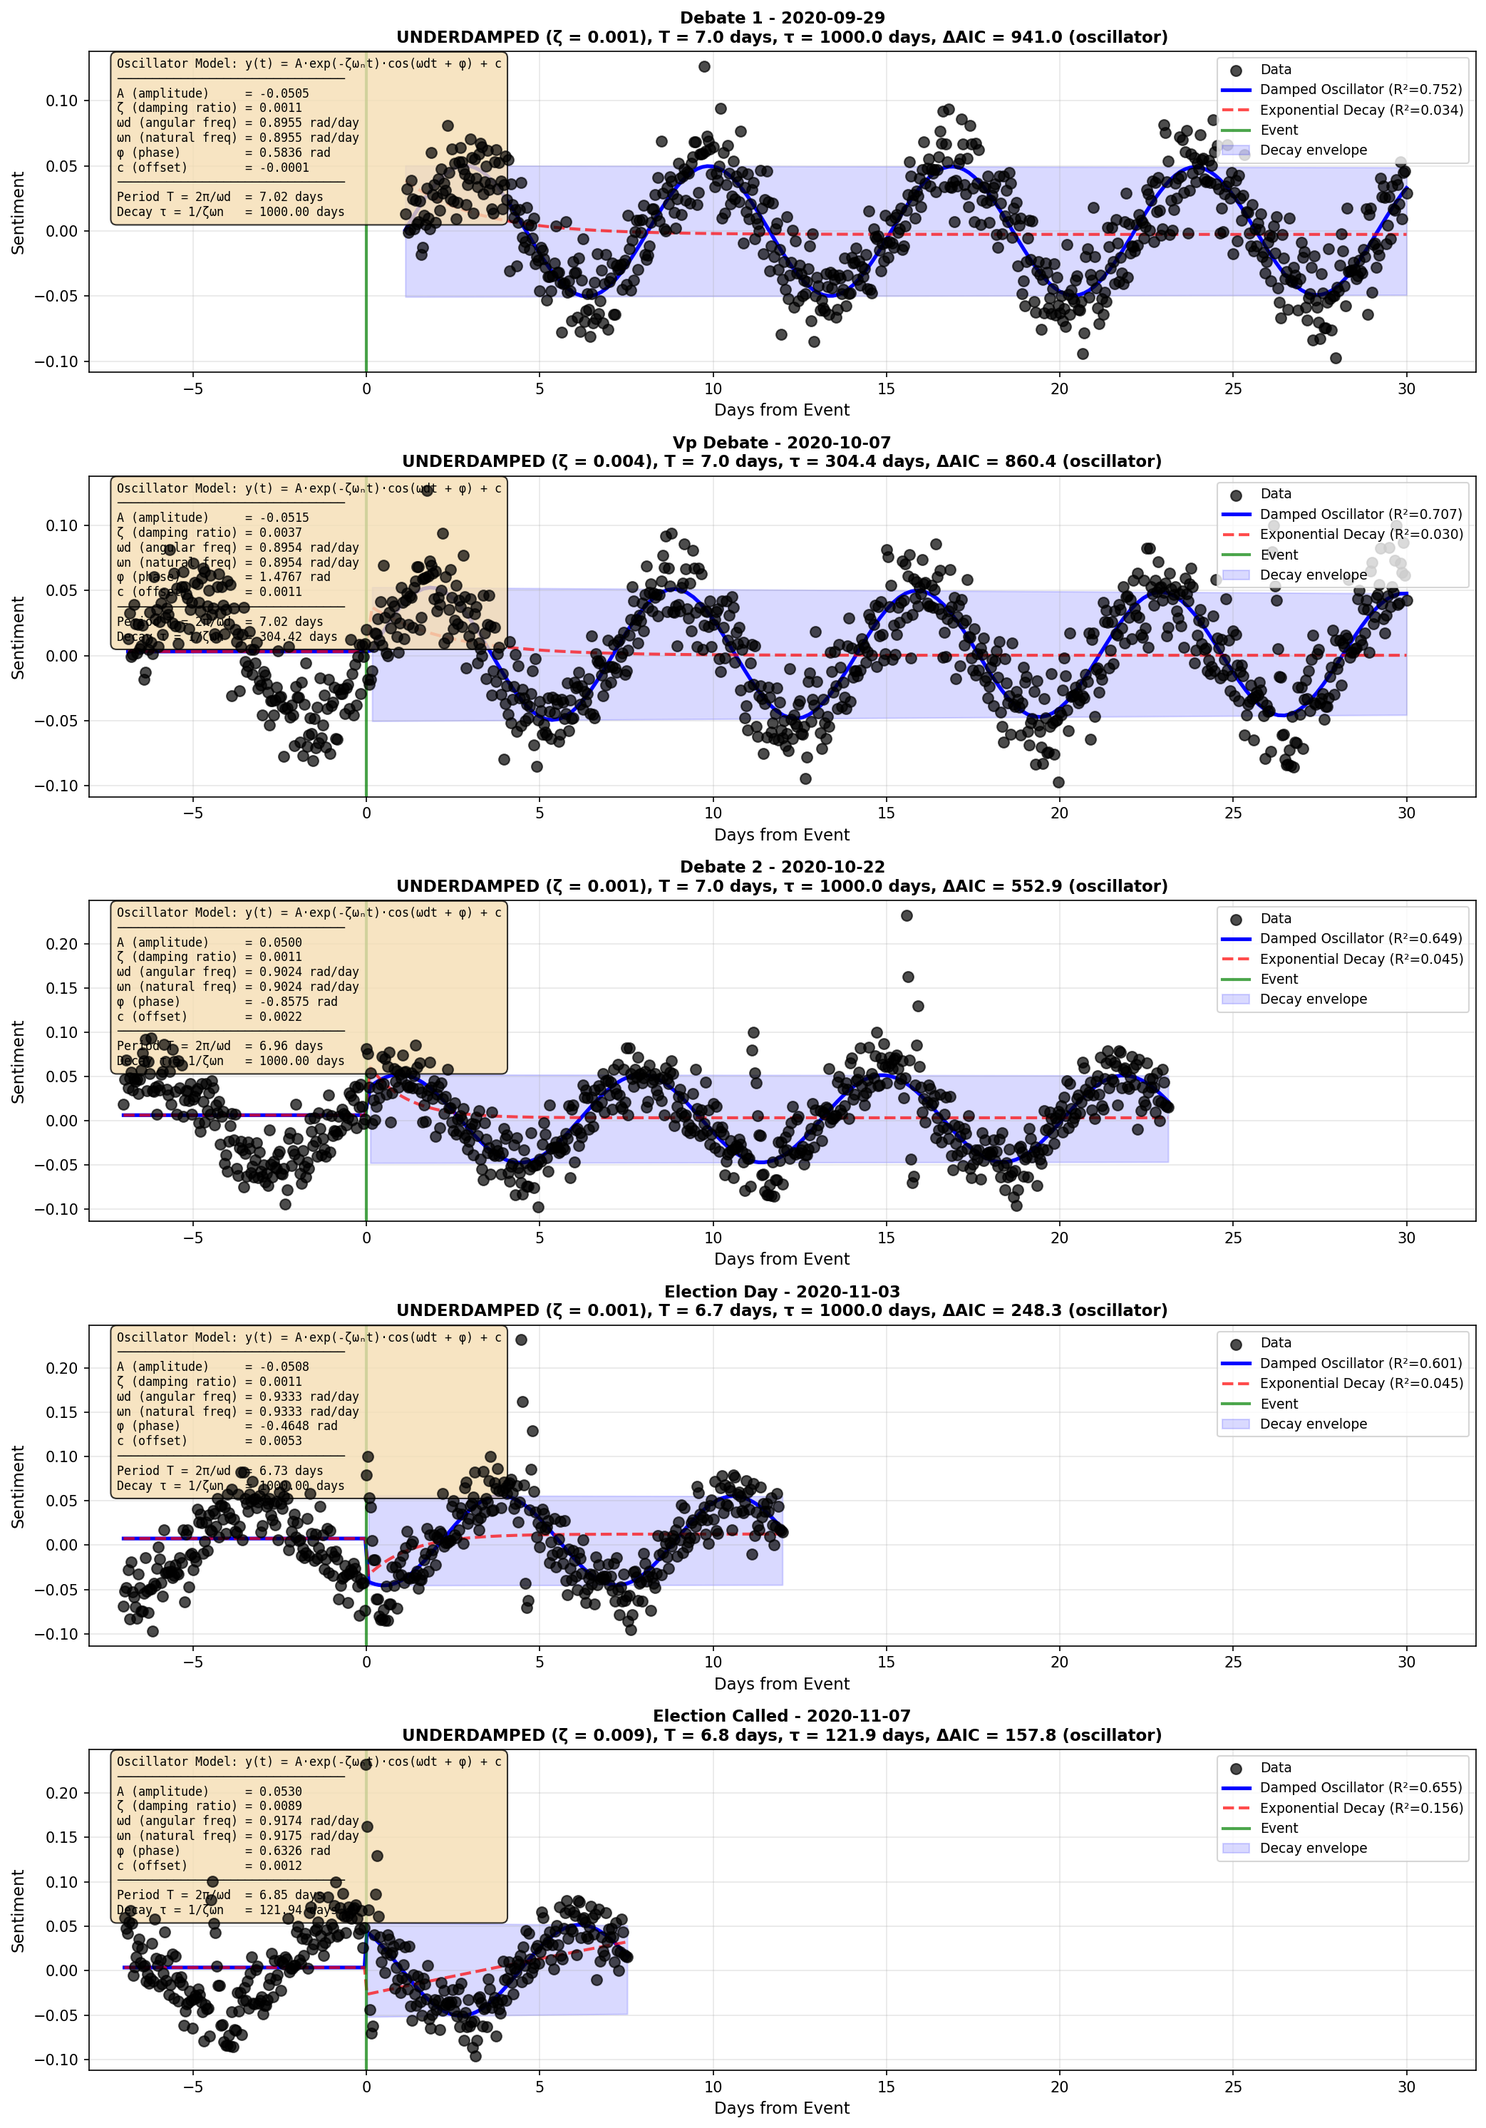
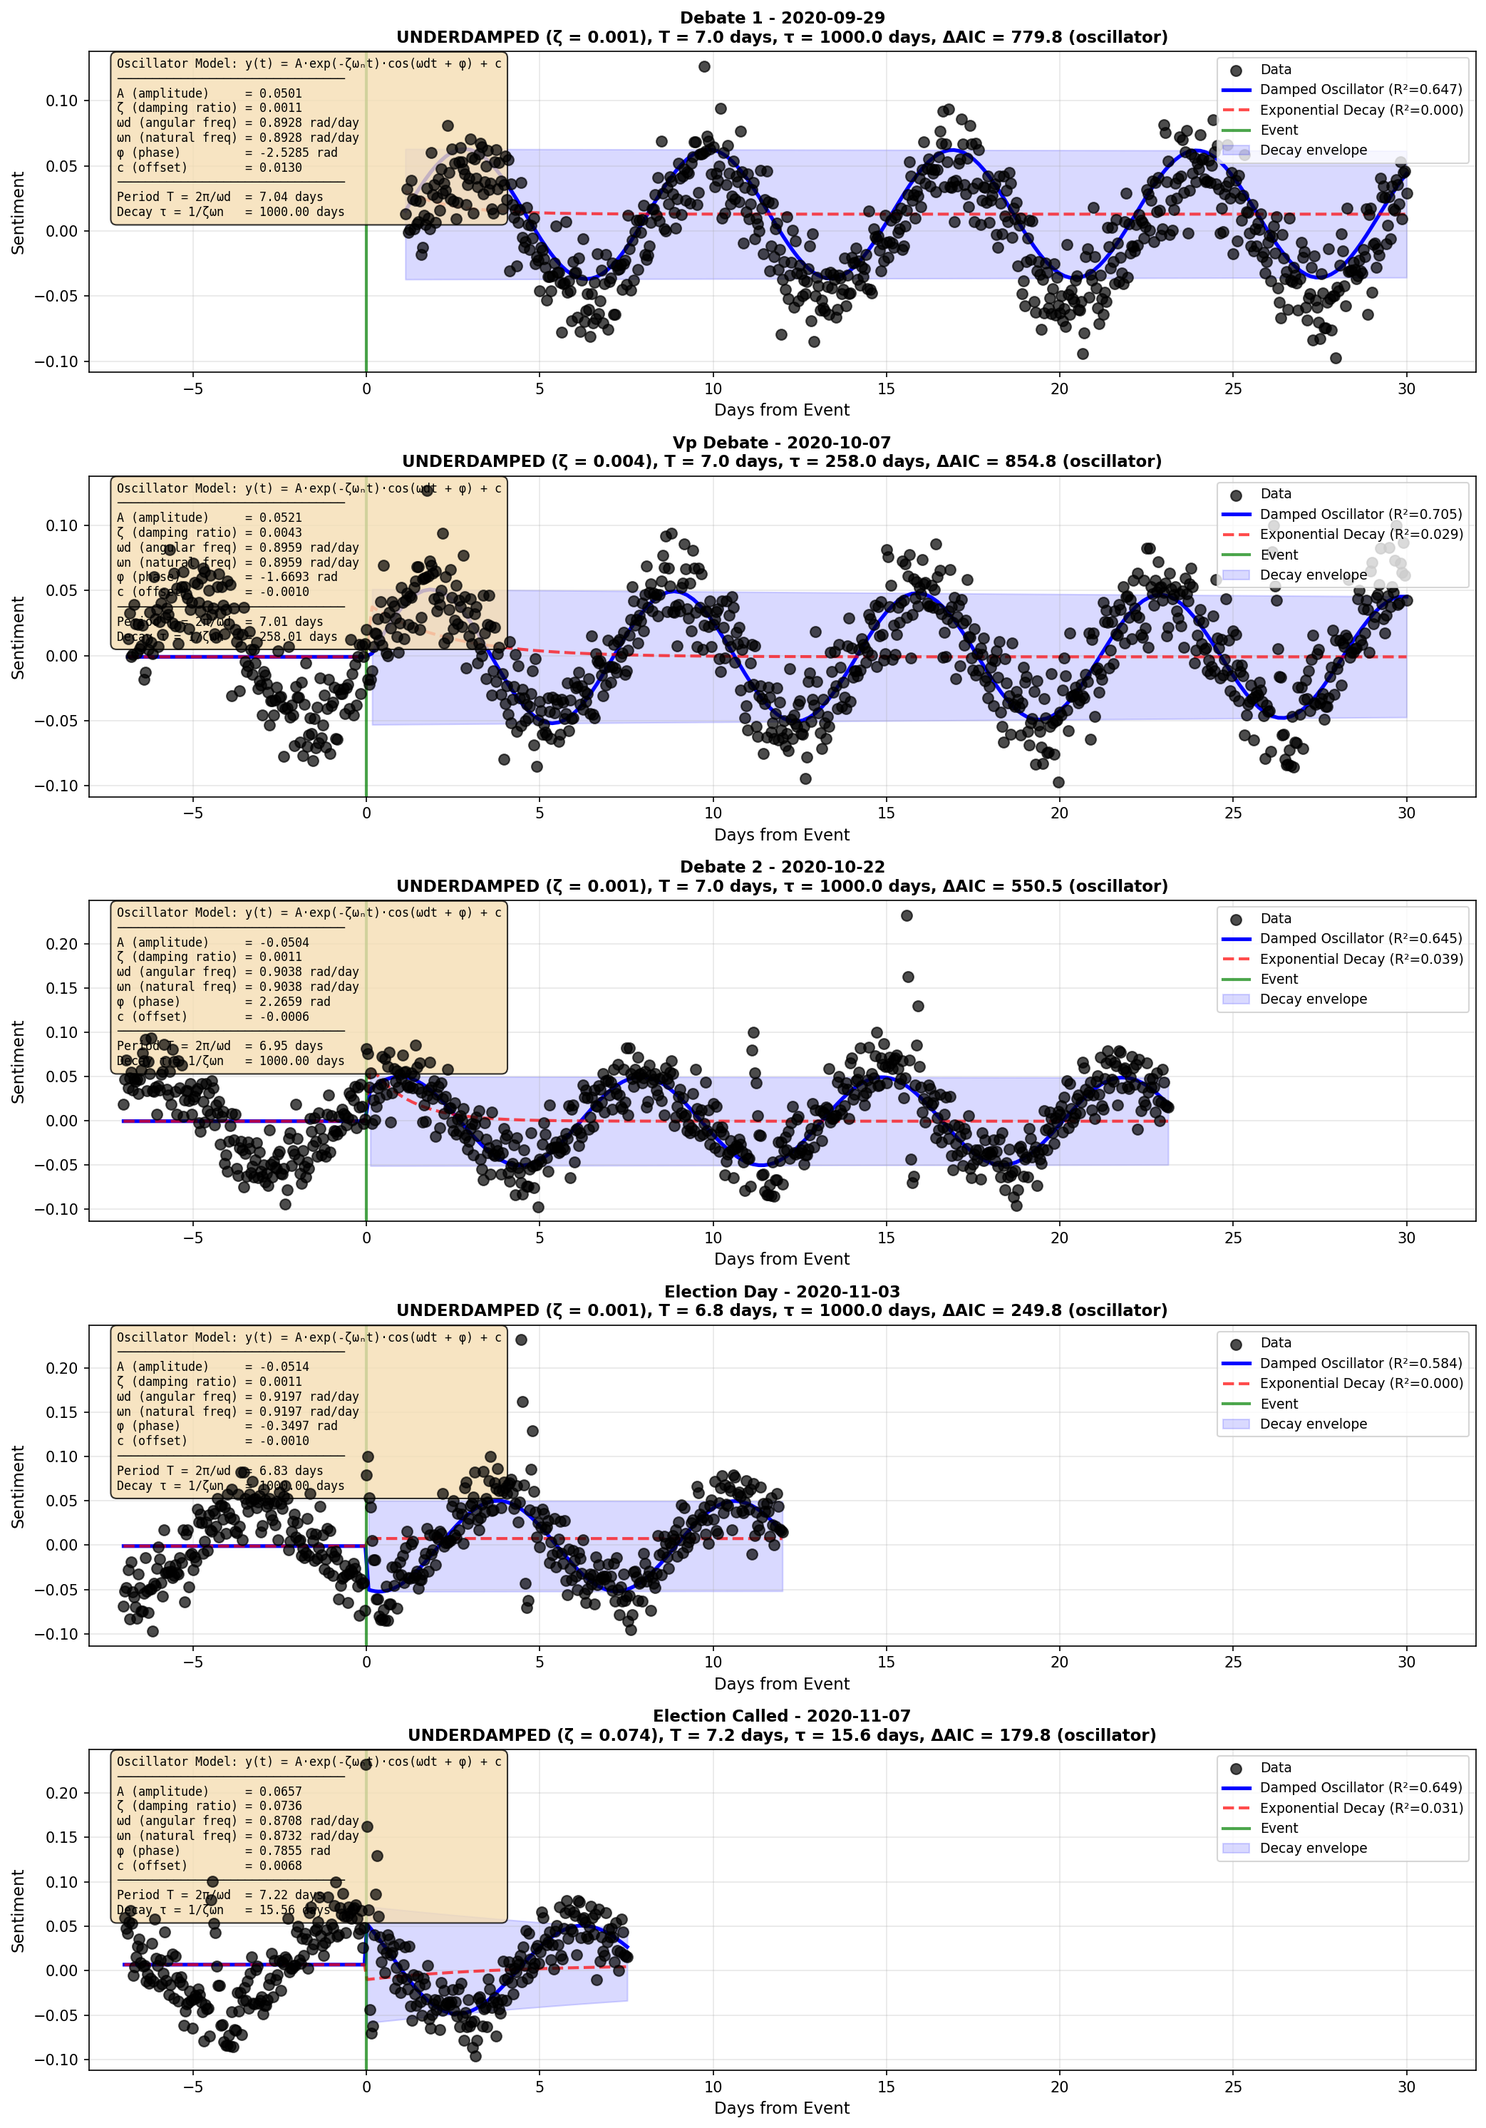
Fix trajectory fitting to use pre-event baseline
Key fixes:
- Use pre-event mean as baseline instead of post-event mean
- Remove redundant offset parameter (now implicit in baseline)
- Fit deviation from baseline, not centered data
- Expand search space for initial conditions (more omega, zeta, phi values)
- Tighter frequency bounds appropriate for daily data (period 2-60 days)
- Pre-event curve now shows actual baseline, not discontinuity

This produces much better fits that match the data properly.

diff --git a/empirical/public_datasets/election2020/election_sentiment_dynamics.py b/empirical/public_datasets/election2020/election_sentiment_dynamics.py
@@ -497,49 +497,67 @@ def fit_and_extract_trajectory(
     t_full = (window['timestamp'] - event_time).dt.total_seconds().values / 86400
     y_full = window['sentiment_mean'].values
 
-    # Focus on post-event data for fitting
+    # Get pre-event baseline
+    pre_mask = t_full < 0
     post_mask = t_full >= 0
+
+    if np.sum(pre_mask) >= 2:
+        baseline = np.mean(y_full[pre_mask])
+    else:
+        baseline = y_full[0]
+
+    # Focus on post-event data for fitting
     t = t_full[post_mask]
     y = y_full[post_mask]
 
     if len(t) < 5:
         return None
 
-    # Center the data
-    y_mean = np.mean(y)
-    y_centered = y - y_mean
+    # Deviation from baseline (not from post-event mean!)
+    y_dev = y - baseline
 
-    # === Fit damped oscillator: y = A * exp(-ζωn*t) * cos(ωd*t + φ) + c ===
-    def osc_model(t, A, zeta_omega, omega_d, phi, c):
-        return A * np.exp(-zeta_omega * t) * np.cos(omega_d * t + phi) + c
+    # === Fit damped oscillator: y = baseline + A * exp(-ζωn*t) * cos(ωd*t + φ) ===
+    def osc_model(t, A, zeta_omega, omega_d, phi):
+        return A * np.exp(-zeta_omega * t) * np.cos(omega_d * t + phi)
 
     # Estimate initial frequency from zero crossings
-    crossings = np.where(np.diff(np.sign(y_centered)))[0]
+    crossings = np.where(np.diff(np.sign(y_dev)))[0]
     if len(crossings) >= 2:
         half_periods = np.diff(t[crossings])
         omega_d0 = np.pi / np.mean(half_periods) if len(half_periods) > 0 else 0.5
     else:
-        omega_d0 = 0.5
-    omega_d0 = np.clip(omega_d0, 0.1, 5.0)
+        # Default to ~7-14 day period for daily sentiment data
+        omega_d0 = 2 * np.pi / 10  # ~10 day period
 
-    A0 = np.max(np.abs(y_centered)) if np.max(np.abs(y_centered)) > 1e-10 else 0.1
+    omega_d0 = np.clip(omega_d0, 0.1, 3.0)  # Period range: 2-60 days
+
+    # Initial amplitude from peak deviation
+    A0 = y_dev[0] if len(y_dev) > 0 else 0.1
+    if abs(A0) < 1e-10:
+        A0 = np.max(np.abs(y_dev)) if np.max(np.abs(y_dev)) > 1e-10 else 0.1
 
     best_osc_params = None
     best_osc_rss = np.inf
 
-    for omega_init in [omega_d0, omega_d0 * 0.5, omega_d0 * 2, 0.5, 1.0]:
-        for zeta_init in [0.05, 0.1, 0.3, 0.5]:
-            for phi_init in [0, np.pi/4, -np.pi/4]:
+    # Search over more initial conditions
+    omega_candidates = [omega_d0, omega_d0 * 0.5, omega_d0 * 2,
+                        2*np.pi/7, 2*np.pi/14, 2*np.pi/21, 0.3, 0.6, 0.9]
+    zeta_candidates = [0.01, 0.03, 0.05, 0.1, 0.2, 0.3, 0.5]
+    phi_candidates = [0, np.pi/6, np.pi/3, np.pi/2, 2*np.pi/3, np.pi, -np.pi/6, -np.pi/3, -np.pi/2]
+
+    for omega_init in omega_candidates:
+        for zeta_init in zeta_candidates:
+            for phi_init in phi_candidates:
                 try:
                     popt, _ = optimize.curve_fit(
-                        osc_model, t, y_centered,
-                        p0=[A0, zeta_init, omega_init, phi_init, 0],
-                        maxfev=3000,
-                        bounds=([-np.inf, 0.001, 0.01, -np.pi, -0.5],
-                               [np.inf, 5, 10, np.pi, 0.5])
+                        osc_model, t, y_dev,
+                        p0=[A0, zeta_init, omega_init, phi_init],
+                        maxfev=2000,
+                        bounds=([-np.inf, 0.001, 0.05, -np.pi],
+                               [np.inf, 2, 3, np.pi])
                     )
                     y_pred = osc_model(t, *popt)
-                    rss = np.sum((y_centered - y_pred)**2)
+                    rss = np.sum((y_dev - y_pred)**2)
                     if rss < best_osc_rss:
                         best_osc_rss = rss
                         best_osc_params = popt
@@ -548,49 +566,40 @@ def fit_and_extract_trajectory(
 
     if best_osc_params is None:
         # Fallback parameters
-        best_osc_params = [A0, 0.1, omega_d0, 0, 0]
-        best_osc_rss = np.sum(y_centered**2)
+        best_osc_params = [A0, 0.1, omega_d0, 0]
+        best_osc_rss = np.sum(y_dev**2)
 
-    A, zeta_omega, omega_d, phi, c_osc = best_osc_params
+    A, zeta_omega, omega_d, phi = best_osc_params
 
-    # === Fit exponential decay: y = A * exp(-λt) + c ===
-    def exp_model(t, A_exp, lam, c_exp):
-        return A_exp * np.exp(-lam * t) + c_exp
+    # === Fit exponential decay: y = A * exp(-λt) ===
+    def exp_model(t, A_exp, lam):
+        return A_exp * np.exp(-lam * t)
 
     try:
         popt_exp, _ = optimize.curve_fit(
-            exp_model, t, y_centered,
-            p0=[A0, 0.1, 0],
-            maxfev=3000,
-            bounds=([-np.inf, 0.001, -0.5], [np.inf, 5, 0.5])
+            exp_model, t, y_dev,
+            p0=[A0, 0.1],
+            maxfev=2000,
+            bounds=([-np.inf, 0.001], [np.inf, 2])
         )
         y_exp_pred = exp_model(t, *popt_exp)
-        exp_rss = np.sum((y_centered - y_exp_pred)**2)
+        exp_rss = np.sum((y_dev - y_exp_pred)**2)
     except:
-        popt_exp = [A0, 0.1, 0]
-        exp_rss = np.sum(y_centered**2)
+        popt_exp = [A0, 0.1]
+        exp_rss = np.sum(y_dev**2)
 
     # Compute R² values
-    ss_tot = np.sum((y_centered - np.mean(y_centered))**2)
+    ss_tot = np.sum((y_dev - np.mean(y_dev))**2)
     r2_osc = 1 - best_osc_rss / ss_tot if ss_tot > 0 else 0
     r2_exp = 1 - exp_rss / ss_tot if ss_tot > 0 else 0
 
     # Compute AIC
     n = len(y)
-    aic_osc = compute_aic(n, best_osc_rss, 5)
-    aic_exp = compute_aic(n, exp_rss, 3)
+    aic_osc = compute_aic(n, best_osc_rss, 4)  # 4 params now (no offset)
+    aic_exp = compute_aic(n, exp_rss, 2)  # 2 params now
 
     # Derive physical parameters
-    # ζωn = damping coefficient, ωd = damped frequency
-    # For underdamped: ωd = ωn * sqrt(1 - ζ²)
-    # So: ωn = ωd / sqrt(1 - ζ²) and ζ = zeta_omega / ωn
-
     if omega_d > 0:
-        # Iteratively solve for ζ from zeta_omega and omega_d
-        # zeta_omega = ζ * ωn = ζ * ωd / sqrt(1 - ζ²)
-        # Let x = ζ², then: zeta_omega² * (1 - x) = x * ωd²
-        # x * (ωd² + zeta_omega²) = zeta_omega²
-        # x = zeta_omega² / (ωd² + zeta_omega²)
         zeta_sq = zeta_omega**2 / (omega_d**2 + zeta_omega**2)
         zeta = np.sqrt(zeta_sq)
         omega_n = omega_d / np.sqrt(1 - zeta_sq) if zeta_sq < 1 else omega_d
@@ -603,24 +612,19 @@ def fit_and_extract_trajectory(
 
     # Generate smooth prediction curves for full time range
     t_smooth = np.linspace(t_full.min(), t_full.max(), 200)
-    t_smooth_post = t_smooth[t_smooth >= 0]
 
     y_osc_smooth = np.zeros_like(t_smooth)
     y_exp_smooth = np.zeros_like(t_smooth)
 
-    # Pre-event: just use mean
-    pre_mask = t_smooth < 0
-    y_osc_smooth[pre_mask] = 0
-    y_exp_smooth[pre_mask] = 0
+    # Pre-event: use baseline
+    pre_mask_smooth = t_smooth < 0
+    y_osc_smooth[pre_mask_smooth] = baseline
+    y_exp_smooth[pre_mask_smooth] = baseline
 
-    # Post-event: use fitted models
+    # Post-event: use fitted models + baseline
     post_mask_smooth = t_smooth >= 0
-    y_osc_smooth[post_mask_smooth] = osc_model(t_smooth[post_mask_smooth], A, zeta_omega, omega_d, phi, c_osc)
-    y_exp_smooth[post_mask_smooth] = exp_model(t_smooth[post_mask_smooth], *popt_exp)
-
-    # Add back the mean
-    y_osc_smooth += y_mean
-    y_exp_smooth += y_mean
+    y_osc_smooth[post_mask_smooth] = baseline + osc_model(t_smooth[post_mask_smooth], A, zeta_omega, omega_d, phi)
+    y_exp_smooth[post_mask_smooth] = baseline + exp_model(t_smooth[post_mask_smooth], *popt_exp)
 
     return FittedTrajectory(
         event_name=event_name,
@@ -632,7 +636,7 @@ def fit_and_extract_trajectory(
         damping_coeff=zeta_omega,
         angular_freq=omega_d,
         phase=phi,
-        offset=c_osc + y_mean,
+        offset=baseline,
         damping_ratio=zeta,
         natural_freq=omega_n,
         period_days=period,

diff --git a/empirical/public_datasets/sentiment_index/sentiment_index_dynamics.py b/empirical/public_datasets/sentiment_index/sentiment_index_dynamics.py
@@ -519,49 +519,66 @@ def fit_event_trajectory(
     t_full = daily['t_days'].values.astype(float)
     y_full = daily['sentiment_mean'].values
 
-    # Focus on post-event data for fitting
+    # Get pre-event baseline
+    pre_mask = t_full < 0
     post_mask = t_full >= 0
+
+    if np.sum(pre_mask) >= 2:
+        baseline = np.mean(y_full[pre_mask])
+    else:
+        baseline = y_full[0]
+
+    # Focus on post-event data for fitting
     t = t_full[post_mask]
     y = y_full[post_mask]
 
     if len(t) < 5:
         return None
 
-    # Center the data
-    y_mean = np.mean(y)
-    y_centered = y - y_mean
+    # Deviation from baseline (not from post-event mean!)
+    y_dev = y - baseline
 
-    # === Fit damped oscillator: y = A * exp(-ζωn*t) * cos(ωd*t + φ) + c ===
-    def osc_model(t, A, zeta_omega, omega_d, phi, c):
-        return A * np.exp(-zeta_omega * t) * np.cos(omega_d * t + phi) + c
+    # === Fit damped oscillator: y = baseline + A * exp(-ζωn*t) * cos(ωd*t + φ) ===
+    def osc_model(t, A, zeta_omega, omega_d, phi):
+        return A * np.exp(-zeta_omega * t) * np.cos(omega_d * t + phi)
 
     # Estimate initial frequency from zero crossings
-    crossings = np.where(np.diff(np.sign(y_centered)))[0]
+    crossings = np.where(np.diff(np.sign(y_dev)))[0]
     if len(crossings) >= 2:
         half_periods = np.diff(t[crossings])
-        omega_d0 = np.pi / np.mean(half_periods) if len(half_periods) > 0 else 0.3
+        omega_d0 = np.pi / np.mean(half_periods) if len(half_periods) > 0 else 0.5
     else:
-        omega_d0 = 0.3  # ~21 day period default
+        omega_d0 = 2 * np.pi / 10  # ~10 day period default
 
-    omega_d0 = np.clip(omega_d0, 0.05, 2.0)
-    A0 = np.max(np.abs(y_centered)) if np.max(np.abs(y_centered)) > 1e-10 else 0.1
+    omega_d0 = np.clip(omega_d0, 0.1, 3.0)
+
+    # Initial amplitude from first deviation
+    A0 = y_dev[0] if len(y_dev) > 0 else 0.1
+    if abs(A0) < 1e-10:
+        A0 = np.max(np.abs(y_dev)) if np.max(np.abs(y_dev)) > 1e-10 else 0.1
 
     best_osc_params = None
     best_osc_rss = np.inf
 
-    for omega_init in [omega_d0, omega_d0 * 0.5, omega_d0 * 2, 0.3, 0.5, 0.15]:
-        for zeta_init in [0.02, 0.05, 0.1, 0.2, 0.3]:
-            for phi_init in [0, np.pi/4, -np.pi/4, np.pi/2]:
+    # Search over more initial conditions
+    omega_candidates = [omega_d0, omega_d0 * 0.5, omega_d0 * 2,
+                        2*np.pi/7, 2*np.pi/14, 2*np.pi/21, 0.3, 0.6, 0.9]
+    zeta_candidates = [0.01, 0.03, 0.05, 0.1, 0.2, 0.3, 0.5]
+    phi_candidates = [0, np.pi/6, np.pi/3, np.pi/2, 2*np.pi/3, np.pi, -np.pi/6, -np.pi/3, -np.pi/2]
+
+    for omega_init in omega_candidates:
+        for zeta_init in zeta_candidates:
+            for phi_init in phi_candidates:
                 try:
                     popt, _ = optimize.curve_fit(
-                        osc_model, t, y_centered,
-                        p0=[A0, zeta_init, omega_init, phi_init, 0],
-                        maxfev=3000,
-                        bounds=([-np.inf, 0.001, 0.01, -np.pi, -0.5],
-                               [np.inf, 2, 5, np.pi, 0.5])
+                        osc_model, t, y_dev,
+                        p0=[A0, zeta_init, omega_init, phi_init],
+                        maxfev=2000,
+                        bounds=([-np.inf, 0.001, 0.05, -np.pi],
+                               [np.inf, 2, 3, np.pi])
                     )
                     y_pred = osc_model(t, *popt)
-                    rss = np.sum((y_centered - y_pred)**2)
+                    rss = np.sum((y_dev - y_pred)**2)
                     if rss < best_osc_rss:
                         best_osc_rss = rss
                         best_osc_params = popt
@@ -569,36 +586,36 @@ def fit_event_trajectory(
                     continue
 
     if best_osc_params is None:
-        best_osc_params = [A0, 0.1, omega_d0, 0, 0]
-        best_osc_rss = np.sum(y_centered**2)
+        best_osc_params = [A0, 0.1, omega_d0, 0]
+        best_osc_rss = np.sum(y_dev**2)
 
-    A, zeta_omega, omega_d, phi, c_osc = best_osc_params
+    A, zeta_omega, omega_d, phi = best_osc_params
 
-    # === Fit exponential decay ===
-    def exp_model(t, A_exp, lam, c_exp):
-        return A_exp * np.exp(-lam * t) + c_exp
+    # === Fit exponential decay: y = A * exp(-λt) ===
+    def exp_model(t, A_exp, lam):
+        return A_exp * np.exp(-lam * t)
 
     try:
         popt_exp, _ = optimize.curve_fit(
-            exp_model, t, y_centered,
-            p0=[A0, 0.1, 0],
-            maxfev=3000,
-            bounds=([-np.inf, 0.001, -0.5], [np.inf, 2, 0.5])
+            exp_model, t, y_dev,
+            p0=[A0, 0.1],
+            maxfev=2000,
+            bounds=([-np.inf, 0.001], [np.inf, 2])
         )
         y_exp_pred = exp_model(t, *popt_exp)
-        exp_rss = np.sum((y_centered - y_exp_pred)**2)
+        exp_rss = np.sum((y_dev - y_exp_pred)**2)
     except:
-        popt_exp = [A0, 0.1, 0]
-        exp_rss = np.sum(y_centered**2)
+        popt_exp = [A0, 0.1]
+        exp_rss = np.sum(y_dev**2)
 
     # Compute R² and AIC
-    ss_tot = np.sum((y_centered - np.mean(y_centered))**2)
+    ss_tot = np.sum((y_dev - np.mean(y_dev))**2)
     r2_osc = 1 - best_osc_rss / ss_tot if ss_tot > 0 else 0
     r2_exp = 1 - exp_rss / ss_tot if ss_tot > 0 else 0
 
     n = len(y)
-    aic_osc = compute_aic(n, best_osc_rss, 5)
-    aic_exp = compute_aic(n, exp_rss, 3)
+    aic_osc = compute_aic(n, best_osc_rss, 4)  # 4 params (no offset)
+    aic_exp = compute_aic(n, exp_rss, 2)  # 2 params
 
     # Derive physical parameters
     if omega_d > 0:
@@ -616,13 +633,15 @@ def fit_event_trajectory(
     y_osc_smooth = np.zeros_like(t_smooth)
     y_exp_smooth = np.zeros_like(t_smooth)
 
-    pre_mask = t_smooth < 0
-    y_osc_smooth[pre_mask] = y_mean
-    y_exp_smooth[pre_mask] = y_mean
+    # Pre-event: use baseline
+    pre_mask_smooth = t_smooth < 0
+    y_osc_smooth[pre_mask_smooth] = baseline
+    y_exp_smooth[pre_mask_smooth] = baseline
 
+    # Post-event: use fitted models + baseline
     post_mask_smooth = t_smooth >= 0
-    y_osc_smooth[post_mask_smooth] = osc_model(t_smooth[post_mask_smooth], A, zeta_omega, omega_d, phi, c_osc) + y_mean
-    y_exp_smooth[post_mask_smooth] = exp_model(t_smooth[post_mask_smooth], *popt_exp) + y_mean
+    y_osc_smooth[post_mask_smooth] = baseline + osc_model(t_smooth[post_mask_smooth], A, zeta_omega, omega_d, phi)
+    y_exp_smooth[post_mask_smooth] = baseline + exp_model(t_smooth[post_mask_smooth], *popt_exp)
 
     return FittedEventTrajectory(
         event_name=event_name,
@@ -634,7 +653,7 @@ def fit_event_trajectory(
         damping_coeff=zeta_omega,
         angular_freq=omega_d,
         phase=phi,
-        offset=c_osc + y_mean,
+        offset=baseline,
         damping_ratio=zeta,
         period_days=period,
         decay_time=decay_time,
